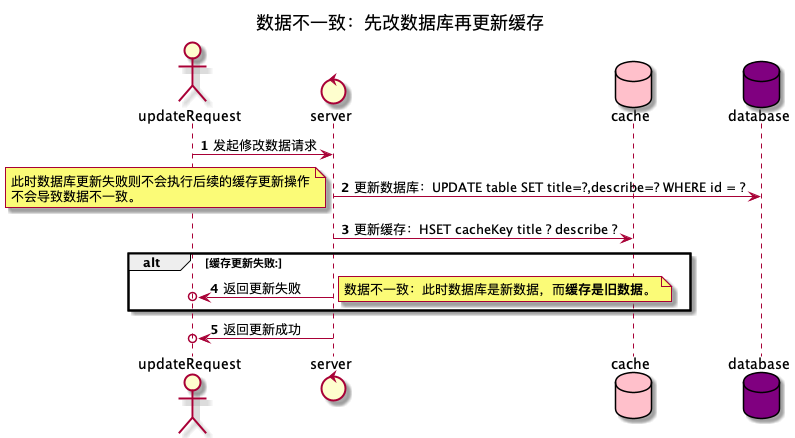
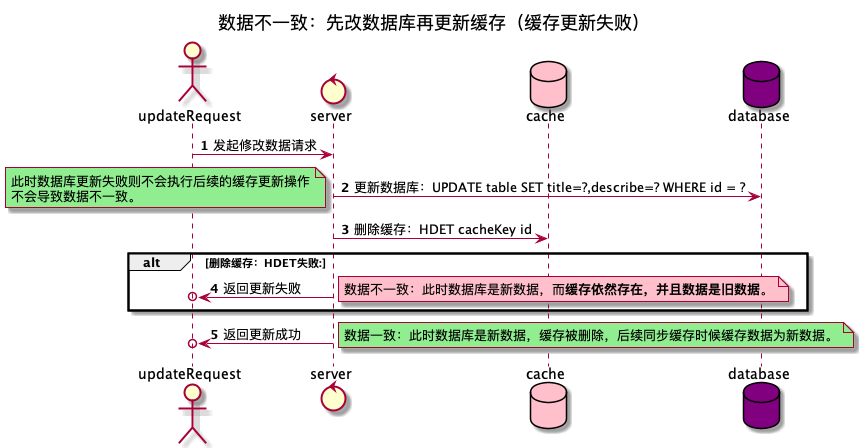
删除旧数据的缓存

Changed region(s): [[0.0, 0.0297, 1.0, 1.0], [0.7547, 0.1187, 0.9962, 0.2968], [0.6038, 0.1187, 0.6642, 0.2968]]

diff --git a/src/cache_practice.md b/src/cache_practice.md
@@ -234,10 +234,28 @@ function QuestionByID(id string, retry int) {
 
 当数据量非常大时 hash 存储无效id会导致缓存数据过大，可以使用[布隆过滤器](https://www.dogedoge.com/results?q=%E5%B8%83%E9%9A%86%E8%BF%87%E6%BB%A4%E5%99%A8) 降低缓存大小。可以根据实际情况选择合适的方式。
 
-### 刷新缓存
+### 删除旧数据的缓存
 
-当提问数据修改或者删除时需要刷新缓存，若刷新缓存的方式是直接设置值则会在极端情况下出现缓存与数据不一致的问题。
+**带着以下思路去思考数据一致性和并发问题**
+
+1. **延迟**：每个操作之间都能出现非常大的延迟（假设每行代码之间都有 sleep 操作）
+2. **原子性**：确认哪些操作不是原子性，考虑不是原子性会导致什么问题。
+3. **并发**：考虑会有其他线程/协程/机器同一时间对数据进行修改
 
 ![](./cache_practice/1-6.png)
+
+---
+
 ![](./cache_practice/1-7.png)
+
+---
+
 ![](./cache_practice/1-8.png)
+
+---
+
+![](./cache_practice/1-9.png)
+
+---
+
+因为缓存存储系统和持久化数据存储系统都是不同的服务提供的（mysql redis）所以无法保证原子性，无法保证原子性就无法保证数据一致。只能通过各种补偿机制保证数据最终一致性，在极端情况下依然无法保证数据一致性。但好在很多场景并不需要实现绝对的数据一致性，允许极端情况下出现短暂的数据不一致。
